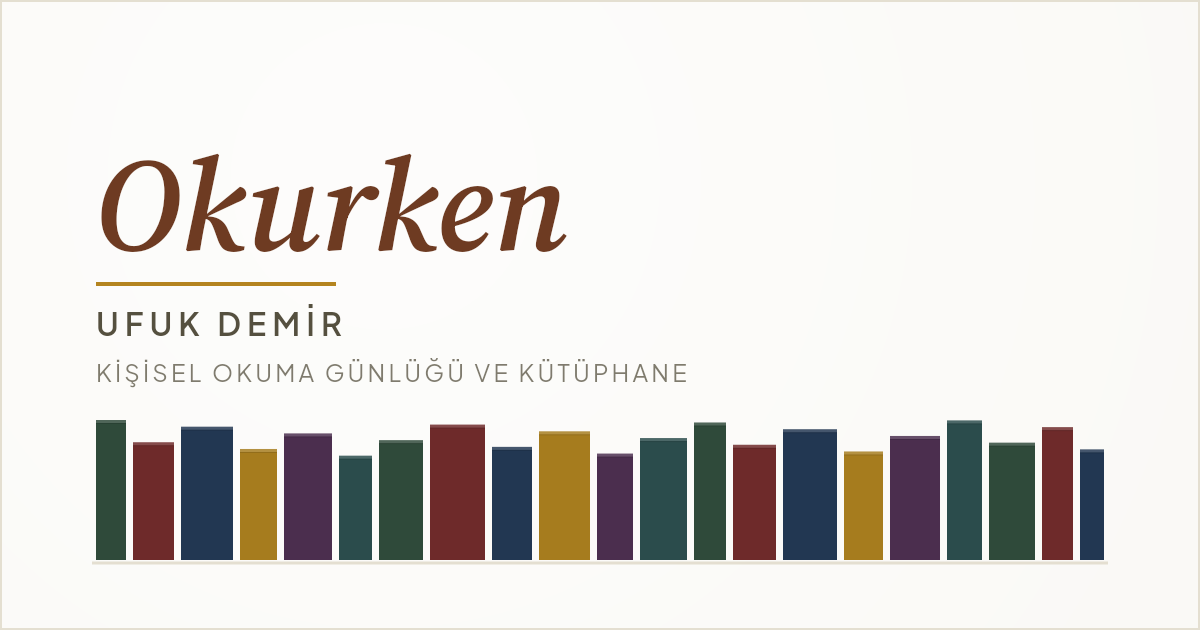
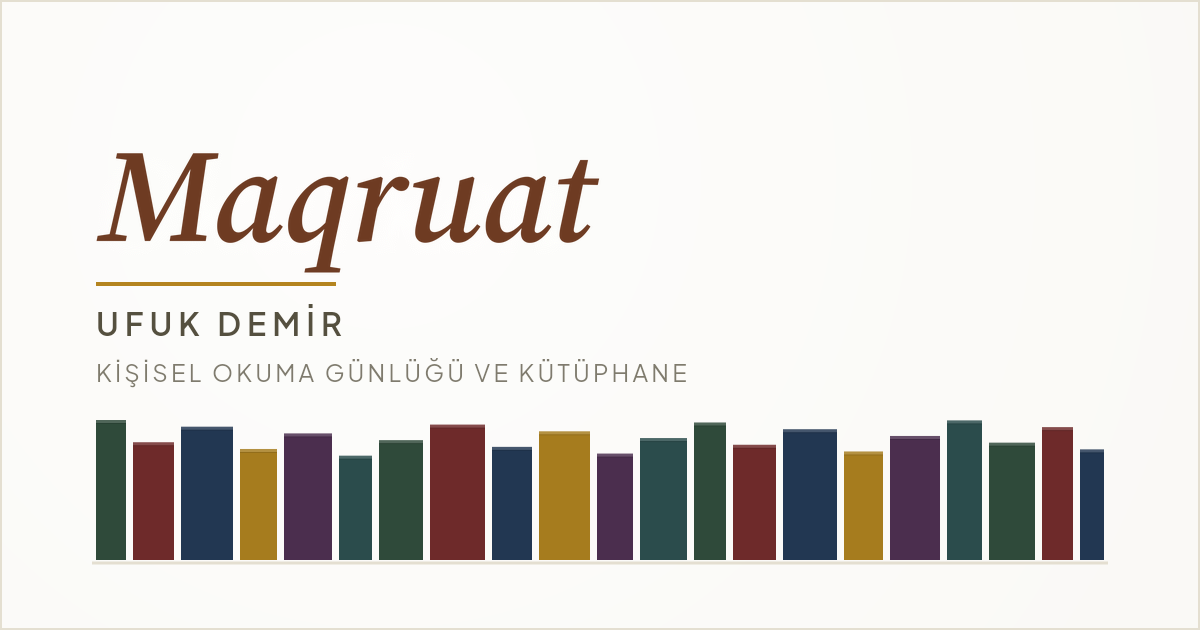
Add files via upload

Changed region(s): [[0.0617, 0.2413, 0.4933, 0.4524]]

diff --git a/src/lib/pdf/pdfArchive.ts b/src/lib/pdf/pdfArchive.ts
@@ -51,7 +51,7 @@ type PdfNode = Record<string, unknown>;
 // olduğu için) çöküyor. Salt-okunur bir string yol vermek bu sorunu tamamen
 // ortadan kaldırır; ayrıca `localAccessPolicy` de yalnızca bu klasöre izin
 // verecek şekilde daraltılır (aşağıya bakınız).
-const FONT_DIR = join(tmpdir(), "okurken-pdf-fonts");
+const FONT_DIR = join(tmpdir(), "maqruat-pdf-fonts");
 mkdirSync(FONT_DIR, { recursive: true });
 
 function materializeFont(fileName: string, base64: string): string {
@@ -125,7 +125,7 @@ function buildCover(data: ArchiveExportData): PdfNode[] {
   ].join("   ·   ");
 
   const nodes: (PdfNode | null)[] = [
-    { text: "OKURKEN", style: "coverKicker", alignment: "center", margin: [0, 90, 0, 0] },
+    { text: "MAQRUAT", style: "coverKicker", alignment: "center", margin: [0, 90, 0, 0] },
     { text: "Arşiv", style: "coverTitle", alignment: "center", margin: [0, 6, 0, 14] },
     data.site.tagline
       ? { text: data.site.tagline, style: "coverTagline", alignment: "center", margin: [0, 0, 0, 26] }
@@ -147,7 +147,7 @@ function buildCover(data: ArchiveExportData): PdfNode[] {
     { text: data.site.readerName, style: "coverReader", alignment: "center" },
     { text: statsLine, style: "coverStats", alignment: "center", margin: [0, 16, 0, 0] },
     {
-      text: `Bu arşiv ${formatDateTR(new Date(data.generatedAt))} tarihinde, Okurken'in "Arşivi indir" özelliğiyle oluşturuldu.`,
+      text: `Bu arşiv ${formatDateTR(new Date(data.generatedAt))} tarihinde, Maqruat'ın "Arşivi indir" özelliğiyle oluşturuldu.`,
       style: "coverMeta",
       alignment: "center",
       margin: [0, 60, 0, 0],
@@ -338,18 +338,18 @@ function buildDocDefinition(data: ArchiveExportData): PdfNode {
       if (currentPage === 1) return { text: "" };
       return {
         columns: [
-          { text: "Okurken — Arşiv", style: "coverMeta", margin: [50, 0, 0, 0] },
+          { text: "Maqruat — Arşiv", style: "coverMeta", margin: [50, 0, 0, 0] },
           { text: `${currentPage} / ${pageCount}`, style: "coverMeta", alignment: "right", margin: [0, 0, 50, 0] },
         ],
         margin: [0, 20, 0, 0],
       };
     },
     info: {
-      title: `Okurken — Arşiv (${data.site.readerName})`,
+      title: `Maqruat — Arşiv (${data.site.readerName})`,
       author: data.site.readerName,
       subject: "Kitaplar, incelemeler, notlar, alıntılar ve blog yazıları arşivi",
-      creator: "Okurken",
-      producer: "Okurken",
+      creator: "Maqruat",
+      producer: "Maqruat",
       creationDate: new Date(data.generatedAt),
     },
     language: "tr",

diff --git a/src/styles/global.css b/src/styles/global.css
@@ -6,7 +6,7 @@
 @custom-variant dark (&:where(.dark, .dark *));
 
 /* -------------------------------------------------------------------------
-   Tasarım Tokenları — "Okurken" kimliği
+   Tasarım Tokenları — "Maqruat" kimliği
    Kağıt + mürekkep + deri ciltli kitap paletinden ilham alınmıştır.
    ---------------------------------------------------------------------- */
 @theme {
@@ -92,7 +92,7 @@
    Uzun metin (inceleme / not) içerikleri için tipografi
    ---------------------------------------------------------------------- */
 @layer components {
-  .prose-okurken {
+  .prose-maqruat {
     --tw-prose-body: var(--color-ink);
     --tw-prose-headings: var(--color-ink);
     --tw-prose-lead: var(--color-ink-soft);
@@ -109,14 +109,14 @@
     --tw-prose-td-borders: var(--color-rule);
     font-family: var(--font-serif);
   }
-  .prose-okurken :where(a):not(:where([class~="not-prose"] *)) {
+  .prose-maqruat :where(a):not(:where([class~="not-prose"] *)) {
     text-decoration-color: var(--color-gold);
     text-underline-offset: 3px;
   }
   /* CMS'ten eklenen içerik görselleri: sitedeki kart görünümüyle (rounded-xl
      + border-rule) tutarlı bir çerçeve, ve her ekran genişliğinde taşmadan
      sığması için tam genişlik/otomatik yükseklik. */
-  .prose-okurken :where(img):not(:where([class~="not-prose"] *)) {
+  .prose-maqruat :where(img):not(:where([class~="not-prose"] *)) {
     border-radius: 0.75rem;
     border: 1px solid var(--color-rule);
     width: 100%;

diff --git a/src/pages/arsiv/maqruat-arsiv.pdf.ts b/src/pages/arsiv/maqruat-arsiv.pdf.ts
@@ -1,0 +1,23 @@
+import type { APIRoute } from "astro";
+import { getArchiveExportData } from "../../lib/archiveExport";
+import { buildArchivePdfBuffer } from "../../lib/pdf/pdfArchive";
+
+export const prerender = true;
+
+/**
+ * "Arşivi indir: PDF" — sitedeki tüm içeriği (kitaplar, incelemeler,
+ * notlar, alıntılar, blog yazıları), Maqruat'ın görsel kimliğine uygun
+ * biçimde tek, düzenli ve dizinli (içindekiler + PDF yer imleri) bir
+ * belgede verir. Gömülü fontlar Türkçe karakterleri tam destekler
+ * (bkz. src/lib/pdf/fonts/README.md).
+ */
+export const GET: APIRoute = async ({ site }) => {
+  const data = await getArchiveExportData(site);
+  const buffer = await buildArchivePdfBuffer(data);
+
+  return new Response(new Uint8Array(buffer), {
+    headers: {
+      "Content-Type": "application/pdf",
+    },
+  });
+};

diff --git a/src/pages/arsiv/maqruat-arsiv.csv.ts b/src/pages/arsiv/maqruat-arsiv.csv.ts
@@ -1,0 +1,23 @@
+import type { APIRoute } from "astro";
+import { getArchiveExportData } from "../../lib/archiveExport";
+import { buildArchiveCsv } from "../../lib/archiveCsv";
+
+export const prerender = true;
+
+/**
+ * "Arşivi indir: CSV" — sitedeki tüm içeriği (kitaplar, incelemeler,
+ * notlar, alıntılar, blog yazıları), elektronik tabloda filtrelenip
+ * sıralanabilecek tek, düz bir CSV dosyası olarak verir. UTF-8 BOM ile
+ * başlar, böylece Excel dahil hiçbir programda Türkçe karakterler
+ * (ğ, ş, ı, İ, ç, ö, ü) bozulmaz.
+ */
+export const GET: APIRoute = async ({ site }) => {
+  const data = await getArchiveExportData(site);
+  const csv = buildArchiveCsv(data);
+
+  return new Response(csv, {
+    headers: {
+      "Content-Type": "text/csv; charset=utf-8",
+    },
+  });
+};

diff --git a/src/pages/arsiv/maqruat-arsiv.json.ts b/src/pages/arsiv/maqruat-arsiv.json.ts
@@ -1,0 +1,20 @@
+import type { APIRoute } from "astro";
+import { getArchiveExportData } from "../../lib/archiveExport";
+
+export const prerender = true;
+
+/**
+ * "Arşivi indir: JSON" — sitedeki TÜM içeriği (kitap kataloğu, incelemeler,
+ * notlar, alıntılar, blog yazıları) tek, düzenli bir JSON dosyasında verir.
+ * Derleme anında (build-time) üretilir; içerik güncellendiğinde site yeniden
+ * derlendiğinde bu dosya da otomatik olarak güncel hâliyle yeniden üretilir.
+ */
+export const GET: APIRoute = async ({ site }) => {
+  const data = await getArchiveExportData(site);
+
+  return new Response(JSON.stringify(data, null, 2), {
+    headers: {
+      "Content-Type": "application/json; charset=utf-8",
+    },
+  });
+};

diff --git a/src/lib/stats.ts b/src/lib/stats.ts
@@ -26,7 +26,7 @@ export interface AuthorHighlight {
   count: number;
 }
 
-export interface OkurkenStats {
+export interface MaqruatStats {
   totalBooks: number;
   statusCounts: Record<BookEntry["data"]["status"], number>;
   totalPagesRead: number;
@@ -100,7 +100,7 @@ function actualPagesRead(book: BookEntry): number {
   return 0;
 }
 
-export async function computeStats(referenceYear = new Date().getFullYear()): Promise<OkurkenStats> {
+export async function computeStats(referenceYear = new Date().getFullYear()): Promise<MaqruatStats> {
   const books = await getPublishedBooks();
   const now = new Date();
 

diff --git a/src/lib/pdf/palette.ts b/src/lib/pdf/palette.ts
@@ -1,5 +1,5 @@
 /**
- * "Okurken" kimliğinin PDF'e taşınan renk paleti. Bir kağıt/mürekkep/deri
+ * "Maqruat" kimliğinin PDF'e taşınan renk paleti. Bir kağıt/mürekkep/deri
  * ciltli kitap dokusundan ilham alan bu değerler, src/styles/global.css
  * içindeki `@theme` bloğunun **açık mod** (light) tonlarıyla birebir
  * eşleşir — PDF her zaman açık zeminde üretilir (yazdırılabilirlik için).

diff --git a/src/lib/url.ts b/src/lib/url.ts
@@ -1,6 +1,6 @@
 /**
  * GitHub Pages çoğu zaman siteyi bir alt yolda yayınlar
- * (ör. https://kullanici.github.io/okurken/). Astro'nun `base` ayarı bunu
+ * (ör. https://kullanici.github.io/maqruat/). Astro'nun `base` ayarı bunu
  * çözer, ancak bileşenler içindeki elle yazılmış `href`/`src` değerlerine
  * bu ön eki otomatik eklemez. İç bağlantılarda daima bu yardımcıyı kullanın.
  */

diff --git a/src/lib/archiveExport.ts b/src/lib/archiveExport.ts
@@ -136,7 +136,7 @@ export async function getArchiveExportData(siteURL: URL | undefined): Promise<Ar
   return {
     generatedAt: new Date().toISOString(),
     site: {
-      name: "Okurken",
+      name: "Maqruat",
       readerName: settings?.data.readerName ?? "Ufuk Demir",
       tagline: settings?.data.tagline ?? "",
       url: siteURL ? siteURL.toString().replace(/\/$/, "") : "",

diff --git a/public/admin/index.html b/public/admin/index.html
@@ -4,7 +4,7 @@
     <meta charset="utf-8" />
     <meta name="viewport" content="width=device-width, initial-scale=1.0" />
     <meta name="robots" content="noindex" />
-    <title>Okurken — Yönetim Paneli</title>
+    <title>Maqruat — Yönetim Paneli</title>
     <link rel="icon" type="image/svg+xml" href="../favicon.svg" />
   </head>
   <body>

diff --git a/src/content/blog/maqruati-neden-kurdum.md b/src/content/blog/maqruati-neden-kurdum.md
@@ -1,0 +1,23 @@
+---
+title: "Maqruat'ı Neden Kurdum"
+publishDate: 2026-09-01
+excerpt: "Yıllardır dağınık şekilde tuttuğum okuma notlarını tek bir yerde toplama fikri nasıl bu platforma dönüştü."
+tags:
+  - "Platform"
+  - "Kişisel"
+draft: false
+---
+
+Uzun süredir bitirdiğim kitapları farklı yerlerde takip ediyordum: bazen bir not uygulamasında, bazen telefonumun notlarında, bazen de hiçbir yerde. Bir kitabı ne zaman bitirdiğimi, hangi cümleyi altını çizdiğimi ya da bir yıl önce hangi kitaba kaç puan verdiğimi hatırlamak giderek zorlaşıyordu.
+
+Maqruat, tam olarak bu dağınıklığa bir çözüm arayışının sonucu. Amacım karmaşık bir "kitap sosyal medyası" değil; sadece kendi okuma sürecimi, kütüphanemi, alıntılarımı, incelemelerimi ve notlarımı tek bir yerde, düzenli bir şekilde tutabileceğim sade bir platform.
+
+## Neden statik bir site?
+
+Platformu tamamen statik olarak kurmamın birkaç sebebi var. İlki hız: sayfalar anında açılıyor, herhangi bir sunucu maliyeti yok. İkincisi kontrol: tüm verilerim düz metin dosyaları hâlinde kendi deponuzda duruyor, herhangi bir üçüncü parti servise bağımlı değilim. İstersem yıllar sonra bile bu verileri başka bir platforma taşımak, tamamen kendi elimde.
+
+## Bundan sonra
+
+Zamanla buraya okuduğum kitapları, o kitaplardan seçtiğim alıntıları ve kısa incelemelerimi ekleyeceğim. Bu blog kısmını da, kitaplarla doğrudan ilgili olmayan ama yine de paylaşmak istediğim düşünceler için ayırdım. Okuma alışkanlıklarım, zaman zaman genel gözlemlerim buraya da yansıyacak.
+
+Uzun soluklu bir proje olarak düşünüyorum bunu — yıllar içinde büyüyen, kendi kişisel arşivim hâline gelen bir yer.

diff --git a/src/content/blog/2026-okuma-hedefim-uzerine.md b/src/content/blog/2026-okuma-hedefim-uzerine.md
@@ -13,6 +13,6 @@ Bu sefer tam tersini denemek istiyorum: daha az ama daha bilinçli seçilmiş ki
 
 ## Sayı değil, süreç
 
-Okurken'i kurarken de aslında bu yaklaşımı destekleyecek bir yapı istedim. Yıllık hedef ilerleme çubuğu güzel bir motivasyon kaynağı, ama asıl değerli olan kısım benim için notlar ve alıntılar bölümleri. Bir kitabı bitirdikten aylar sonra o notlara geri dönüp "ne düşünmüşüm" diye bakabilmek, sadece "kaç kitap okudum" sayısından çok daha anlamlı geliyor bana.
+Maqruat'ı kurarken de aslında bu yaklaşımı destekleyecek bir yapı istedim. Yıllık hedef ilerleme çubuğu güzel bir motivasyon kaynağı, ama asıl değerli olan kısım benim için notlar ve alıntılar bölümleri. Bir kitabı bitirdikten aylar sonra o notlara geri dönüp "ne düşünmüşüm" diye bakabilmek, sadece "kaç kitap okudum" sayısından çok daha anlamlı geliyor bana.
 
 Yıl sonunda buraya dönüp bu hedefi ne kadar tuttuğuma bakacağım. Şimdilik ilerleme iyi gidiyor.
